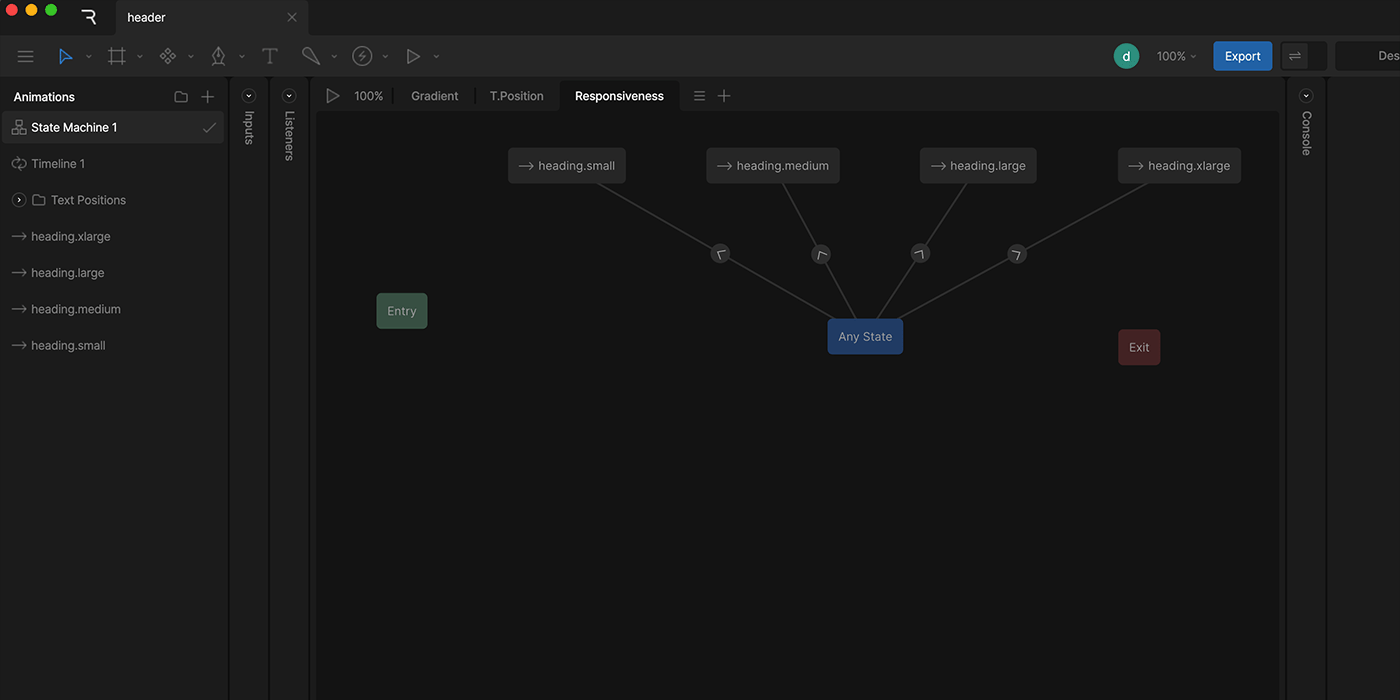
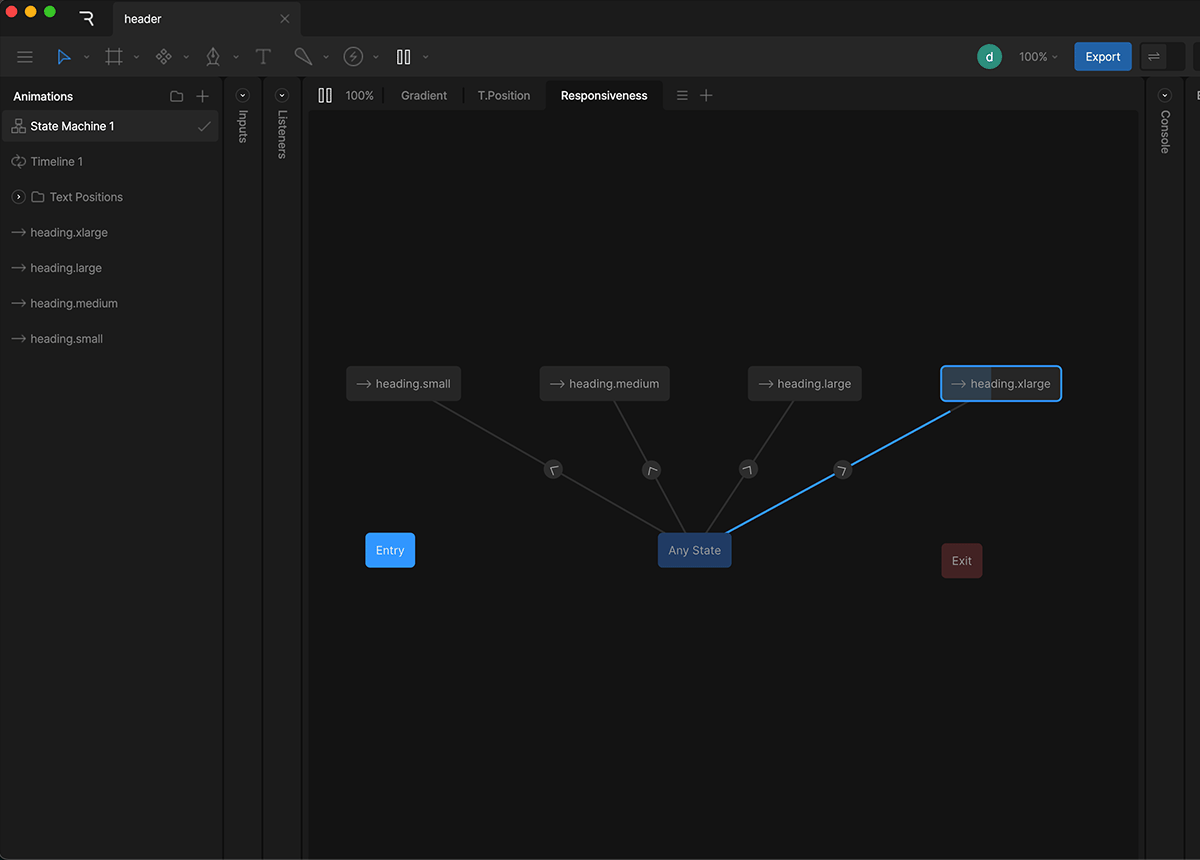
Blog posts updated with images

diff --git a/blog.html b/blog.html
@@ -146,7 +146,7 @@ height="0" width="0" style="display:none;visibility:hidden"></iframe></noscript>
 	<div class="row">
 		<div class="col-lg-8">
 			<div class="post wow fadeIn">
-				<figure class="post-image"><img src="images/blog/cover-responsiveness.png" alt="Image"></figure>
+				<figure class="post-image"><img src="images/blog/responsiveness.png" alt="Image"></figure>
 				<div class="post-content">
 					<div class="avatar">
 						<img src="images/avatar.jpg" alt="Image">by
@@ -161,7 +161,7 @@ height="0" width="0" style="display:none;visibility:hidden"></iframe></noscript>
 			</div>
 			<!-- end post -->
 			<div class="post wow fadeIn">
-				<figure class="post-image"><img src="images/blog02.jpg" alt="Image"></figure>
+				<figure class="post-image"><img src="images/blog/why-motion-matters.webp" alt="Image"></figure>
 				<div class="post-content">
 				<div class="avatar">
 					<img src="images/avatar.jpg" alt="Image">by
@@ -176,7 +176,7 @@ height="0" width="0" style="display:none;visibility:hidden"></iframe></noscript>
 			</div>
 			<!-- end post -->
 				<div class="post wow fadeIn">
-					<figure class="post-image"><img src="images/blog03.jpg" alt="Image"></figure>
+					<figure class="post-image"><img src="images/blog/referenced-fonts-in-rive.webp" alt="Image"></figure>
 					<div class="post-content">
 					<div class="avatar">
 						<img src="images/avatar.jpg" alt="Image">by

diff --git a/blog/referenced-fonts-in-rive.html b/blog/referenced-fonts-in-rive.html
@@ -204,7 +204,7 @@ height="0" width="0" style="display:none;visibility:hidden"></iframe></noscript>
   
   
           <div class="post-body wow fadeIn">
-            <figure class="image-full"><img src="../images/blog/responsiveness.png" alt="Image"></figure>
+            <figure class="image-full"><img src="../images/blog/cover/referenced-fonts-in-rive.webp" alt="Image"></figure>
             <div class="avatar">
               <img src="../images/avatar.jpg" alt="Image">by
               <a href="#">David de Jesús</a>

diff --git a/blog/why-motion-matters-in-modern-ux.html b/blog/why-motion-matters-in-modern-ux.html
@@ -160,7 +160,7 @@ height="0" width="0" style="display:none;visibility:hidden"></iframe></noscript>
   
   
           <div class="post-body wow fadeIn">
-            <figure class="image-full"><img src="../images/blog/responsiveness.png" alt="Image"></figure>
+            <figure class="image-full"><img src="../images/blog/cover/why-motion-matters.webp" alt="Image"></figure>
             <div class="avatar">
               <img src="../images/avatar.jpg" alt="Image">by
               <a href="#">David de Jesús</a>

diff --git a/blog/responsive-text-in-rive.html b/blog/responsive-text-in-rive.html
@@ -161,7 +161,7 @@ height="0" width="0" style="display:none;visibility:hidden"></iframe></noscript>
   
   
           <div class="post-body wow fadeIn">
-            <figure class="image-full"><img src="../images/blog/responsiveness.png" alt="Image"></figure>
+            <figure class="image-full"><img src="../images/blog/cover/responsiveness.png" alt="Image"></figure>
             <div class="avatar">
               <img src="../images/avatar.jpg" alt="Image">by
               <a href="#">David de Jesús</a>
